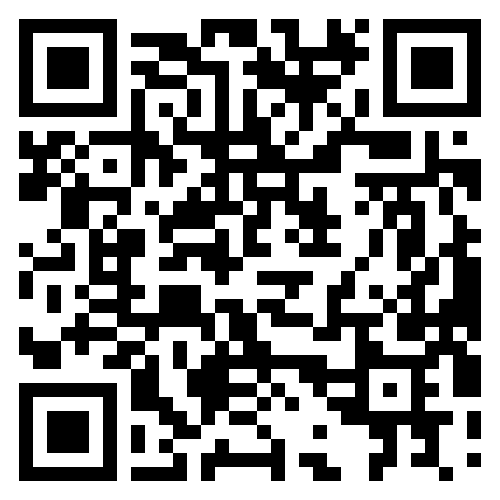
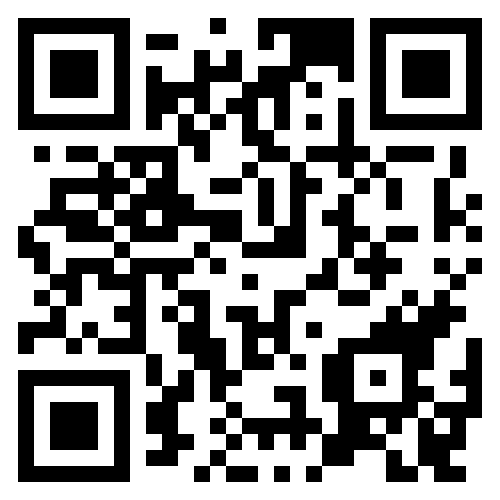
gg

diff --git a/index.html b/index.html
@@ -96,9 +96,7 @@
                         Business & Consulting
                     </div>
                     <div class="logo-small2">
-                        <a
-                            target="_blank"
-                            href="https://jongyoun3128.github.io/pointground/"
+                        <a target="_blank" href="http://pointground.co.kr/"
                             ><img src="images/qr.png" alt="QR Code"
                         /></a>
                     </div>
